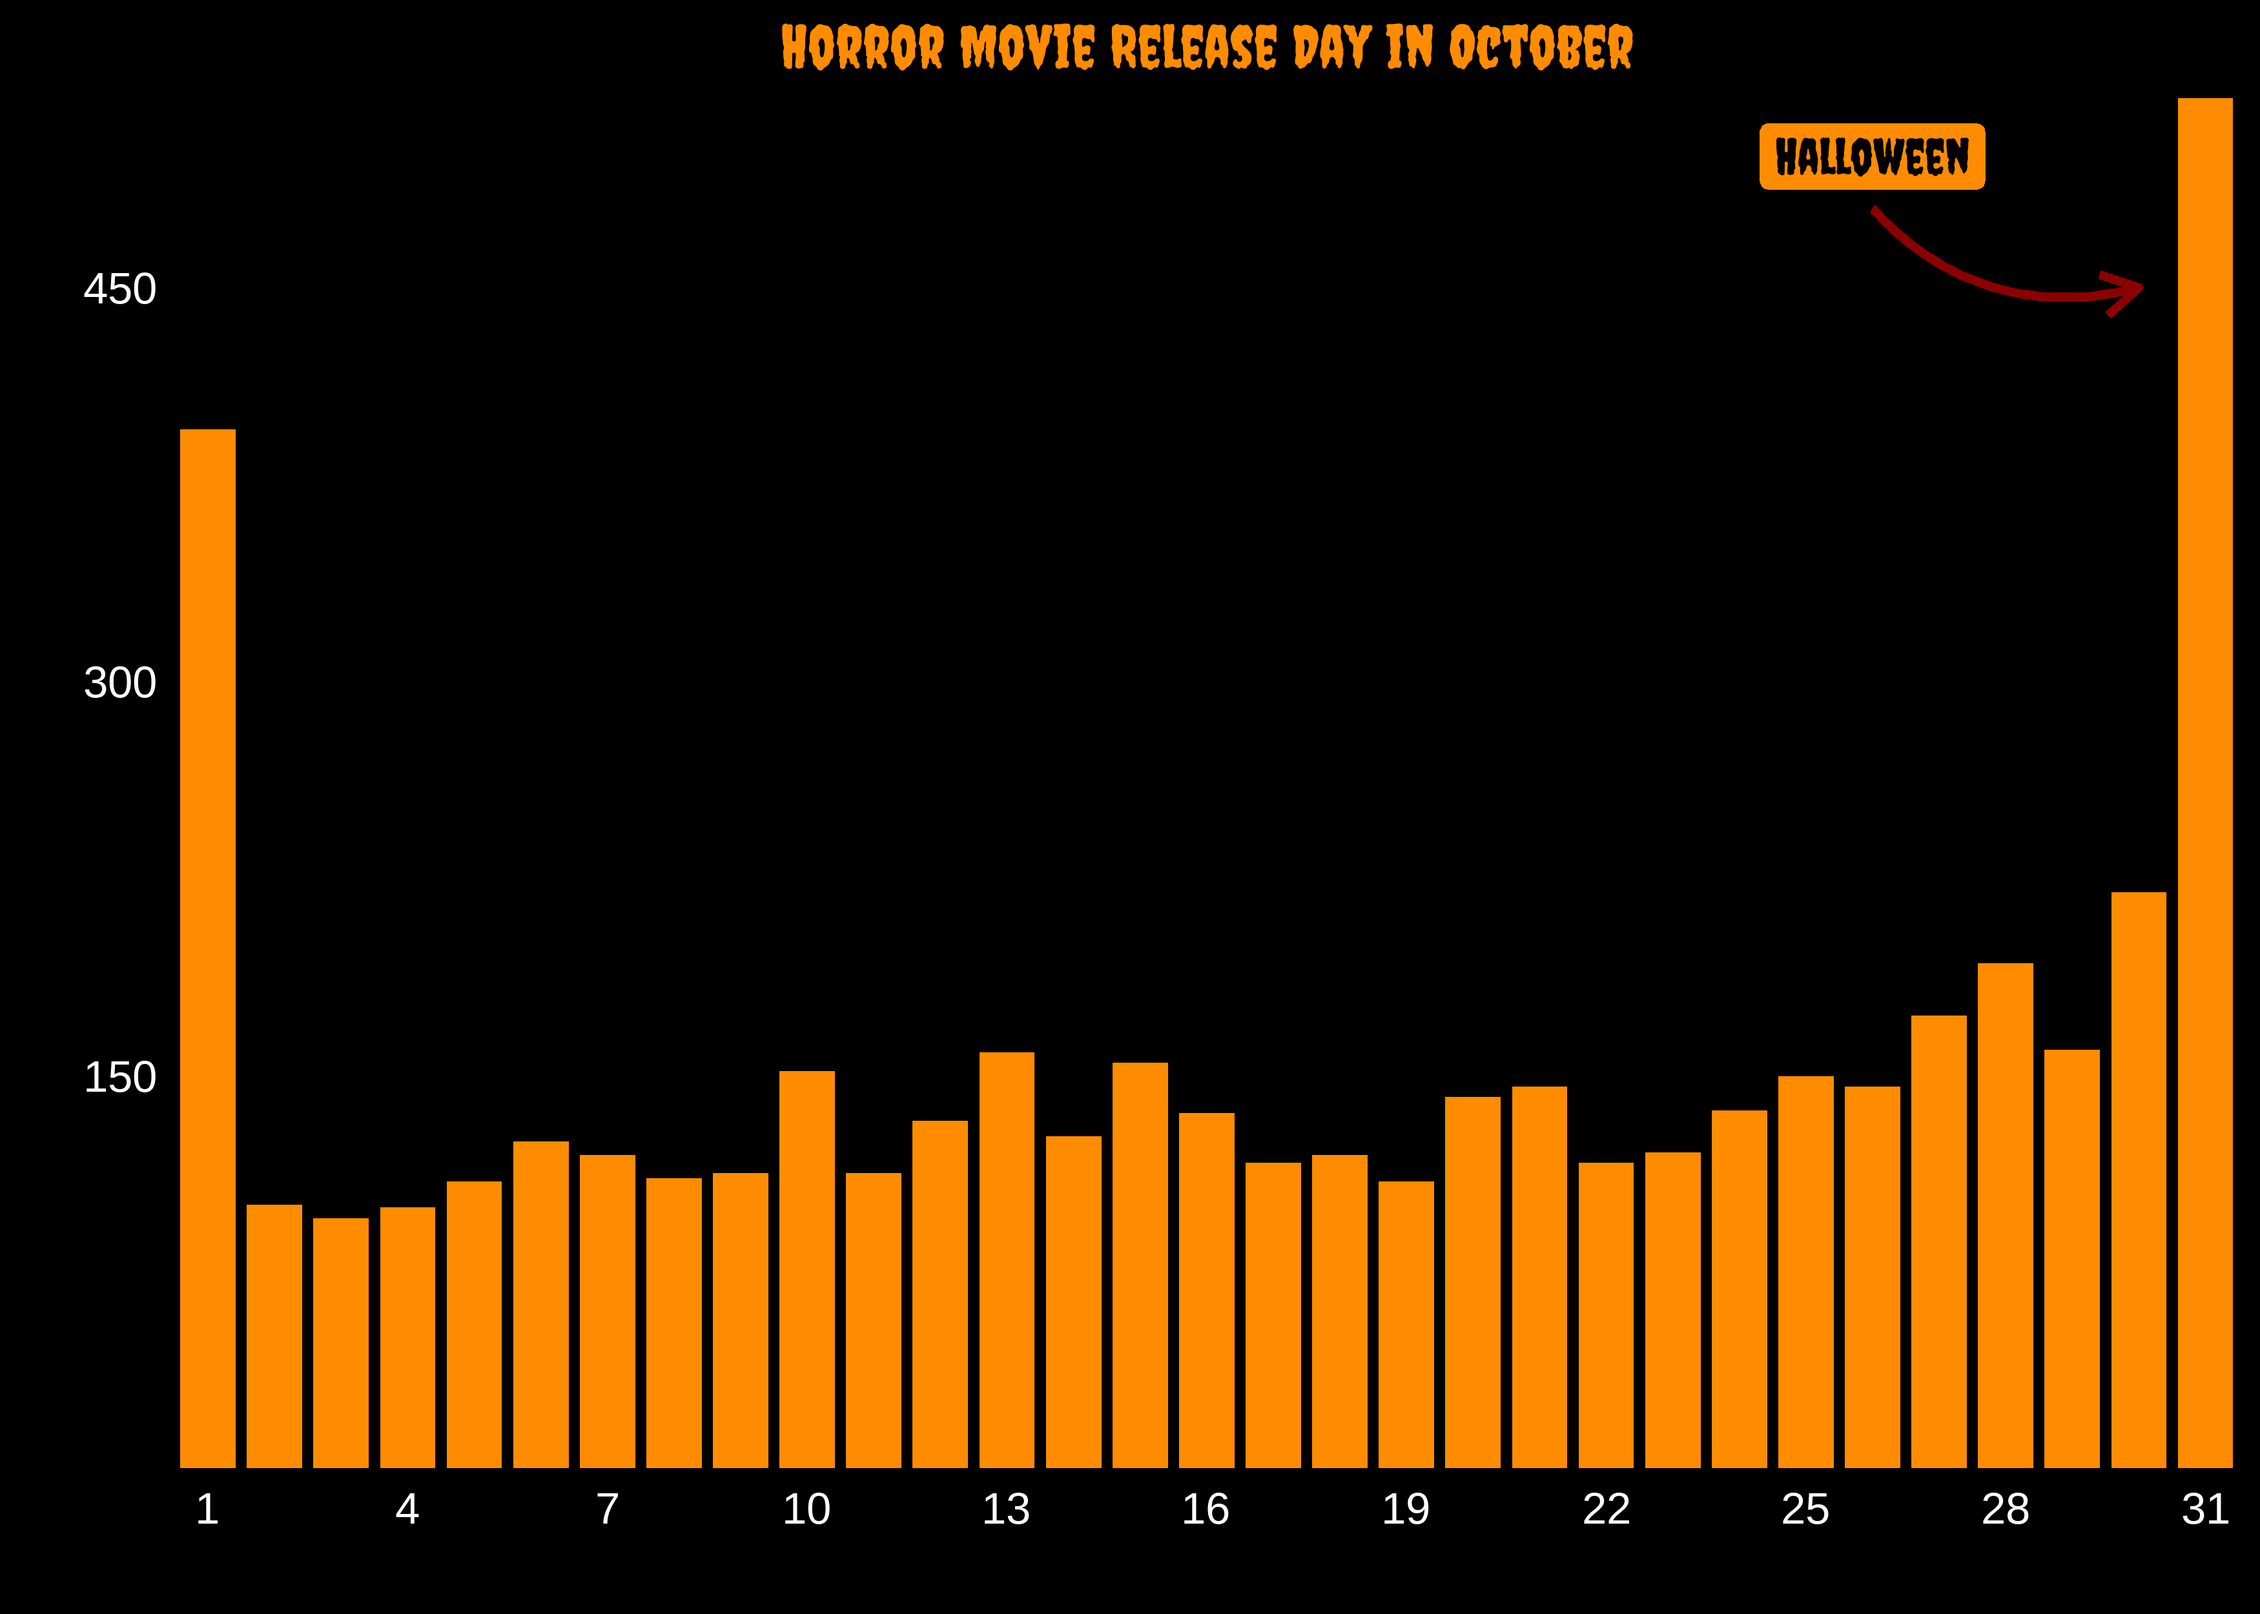
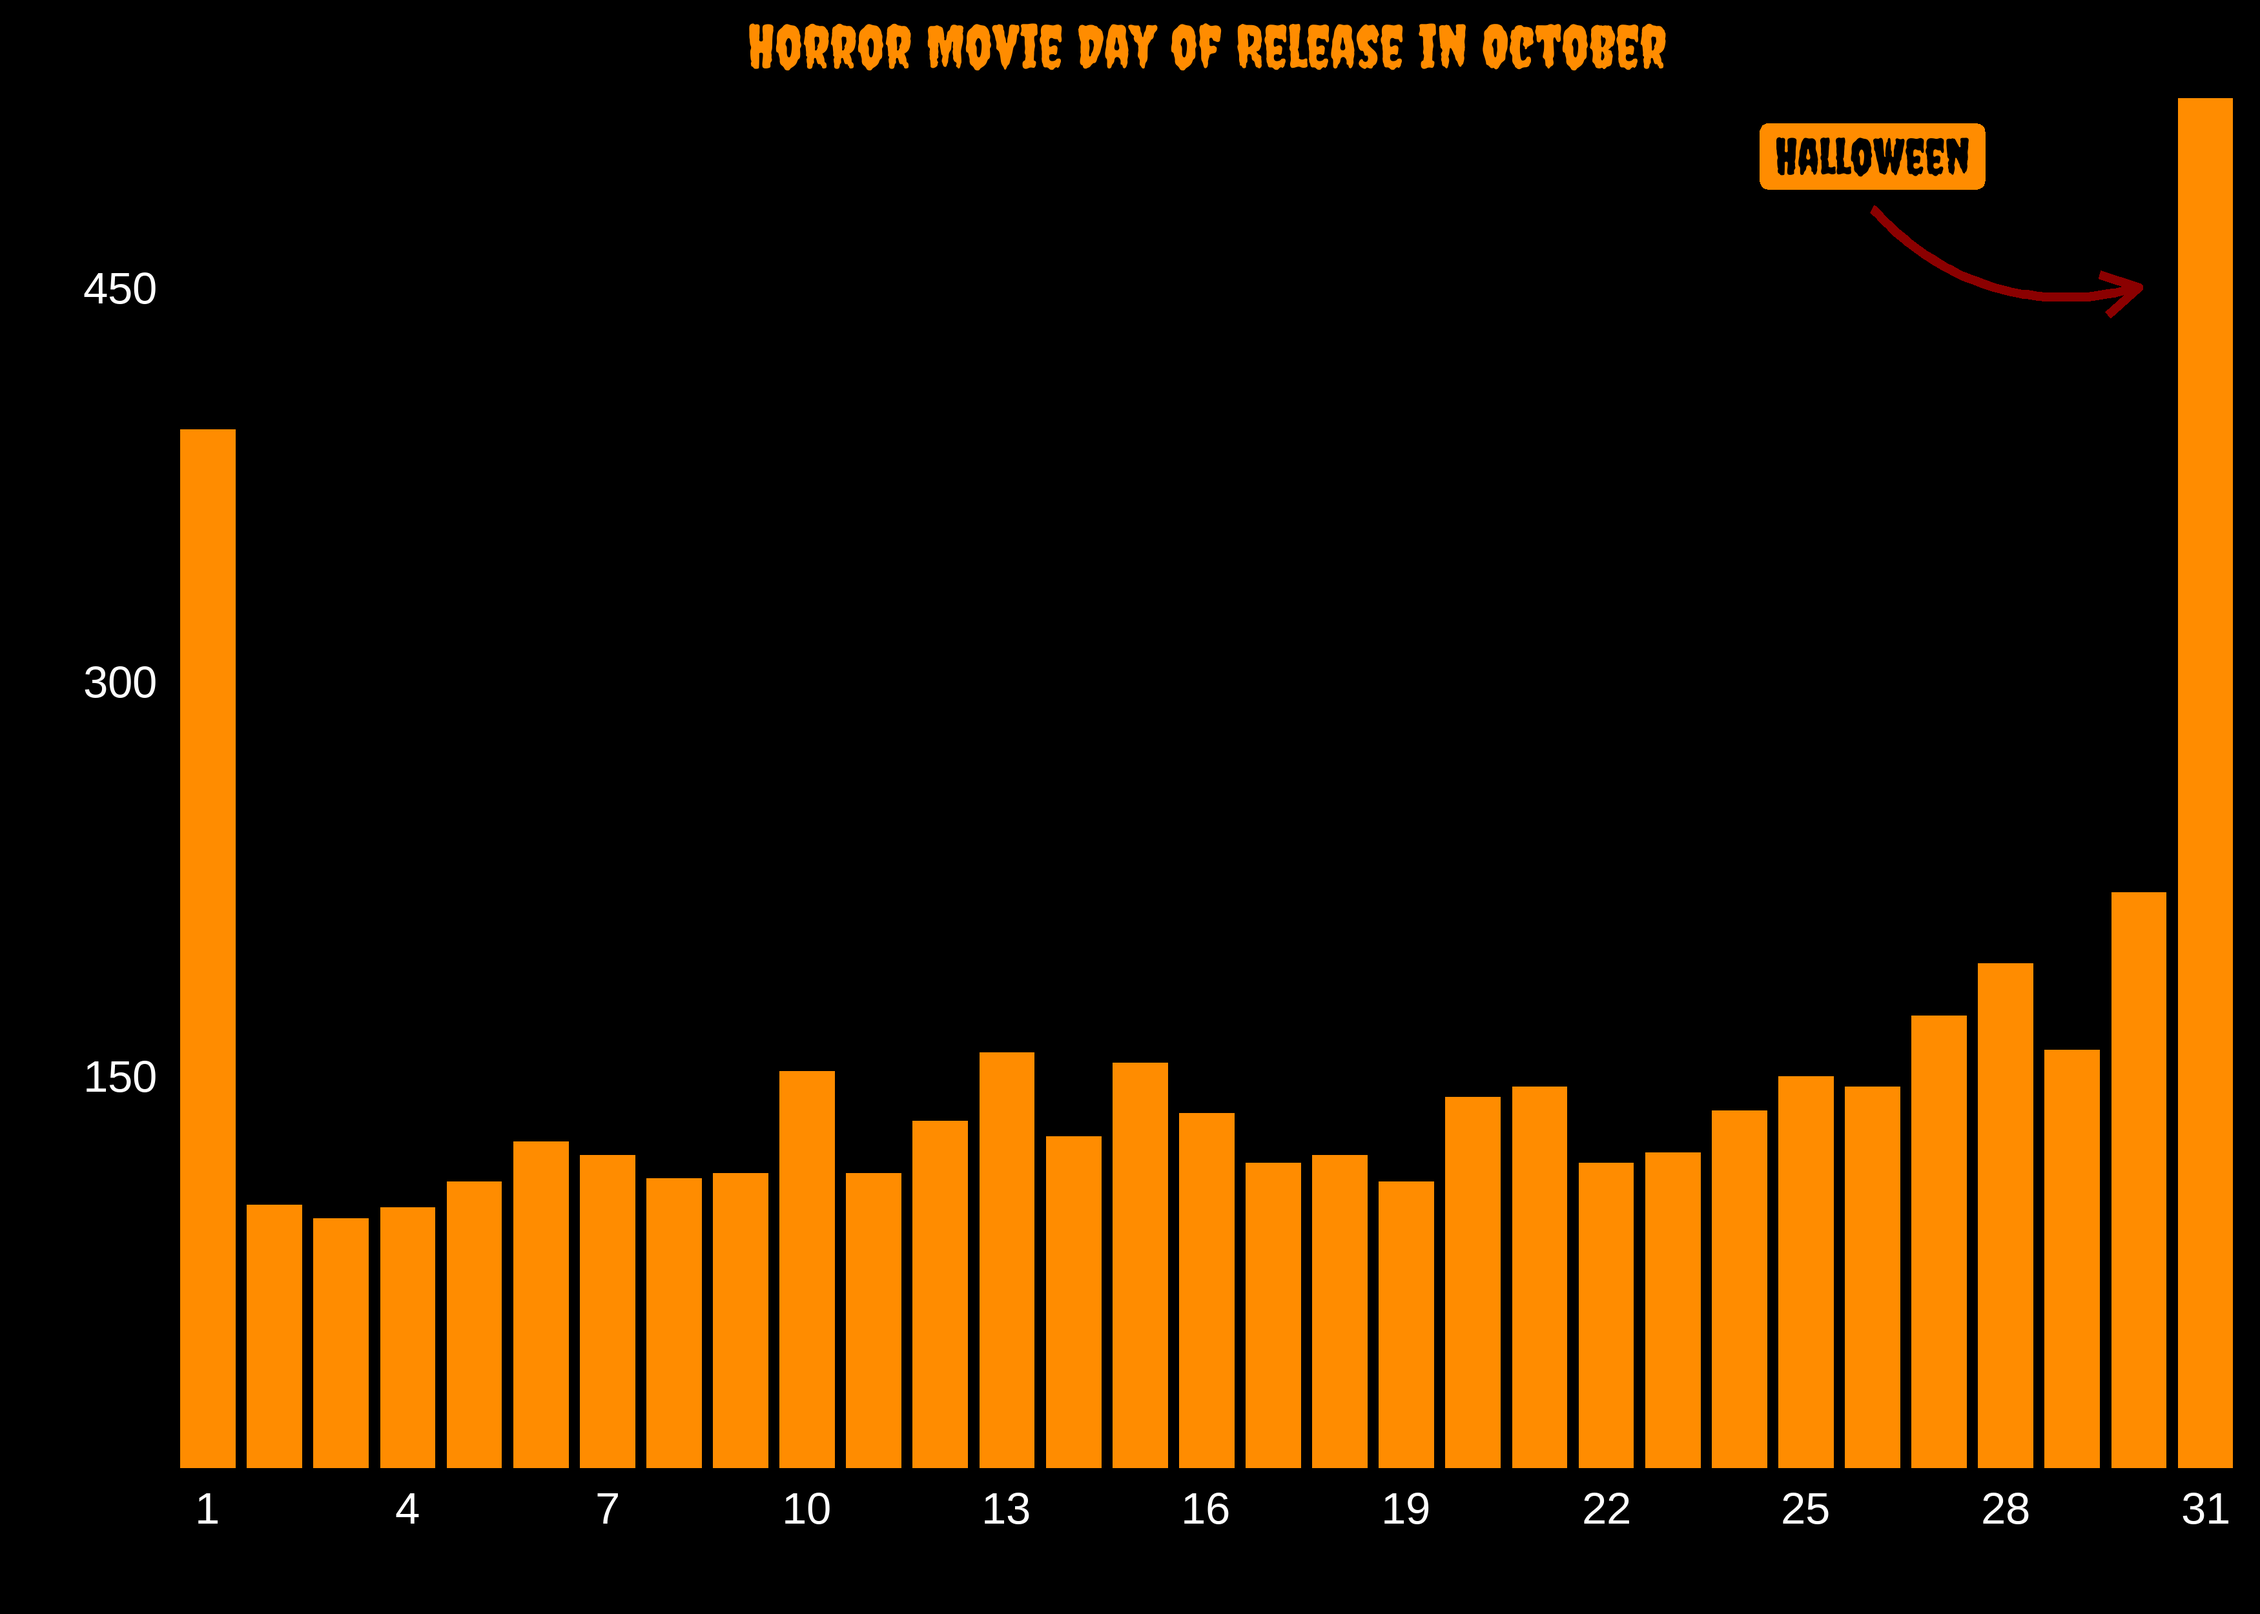
title change

Changed region(s): [[0.3114, 0.0, 0.7474, 0.0624]]

diff --git a/2022/11-01-22/Horror-Movies.md b/2022/11-01-22/Horror-Movies.md
@@ -240,7 +240,7 @@ horror_movies %>%
         plot.background = element_rect(fill = "black"),
         plot.title = element_text(hjust = 0.5, family = "Creepster", color = "darkorange"), 
         panel.background = element_rect(fill = "black", color  =  NA)) +
-  labs(title = "Horror Movie Release Day in October", y = "", x = "") 
+  labs(title = "Horror Movie Day of Release in October", y = "", x = "") 
 ```
 
 ![](Horror-Movies_files/figure-gfm/unnamed-chunk-16-1.png)<!-- -->
